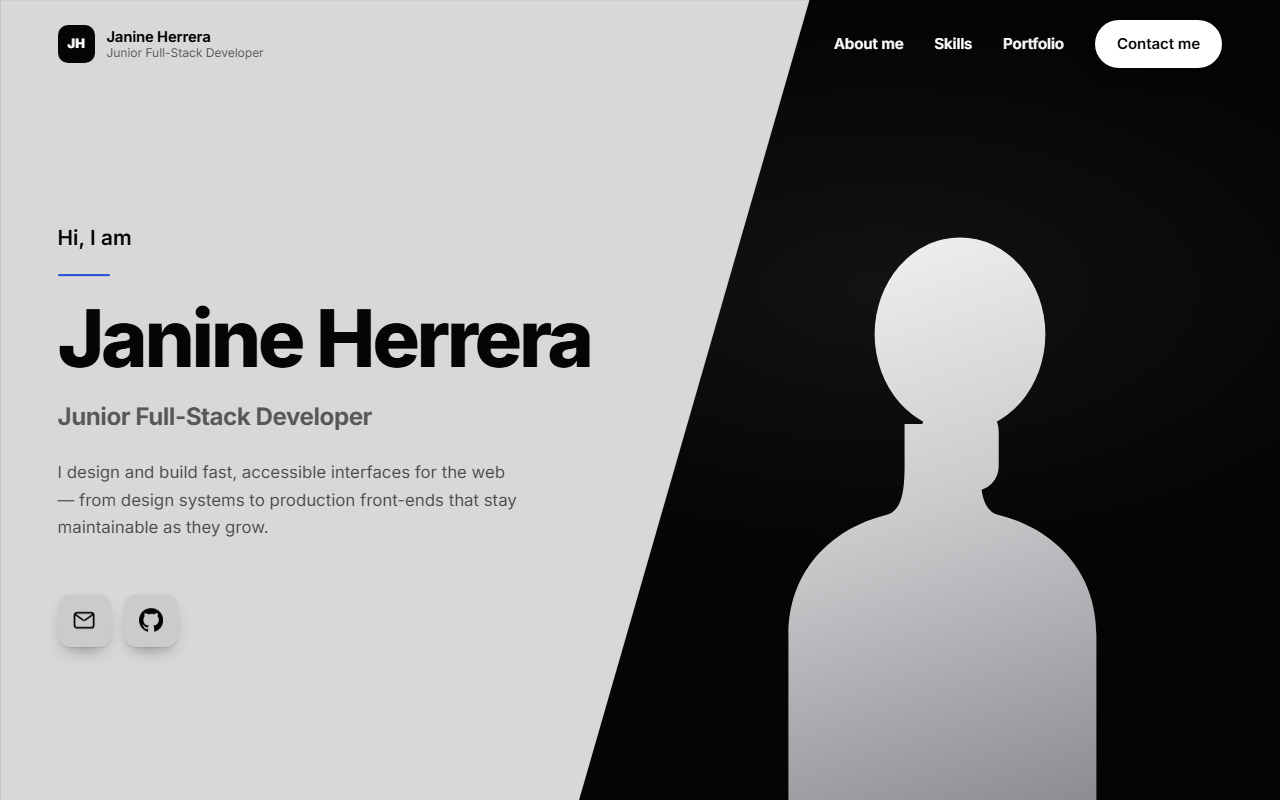
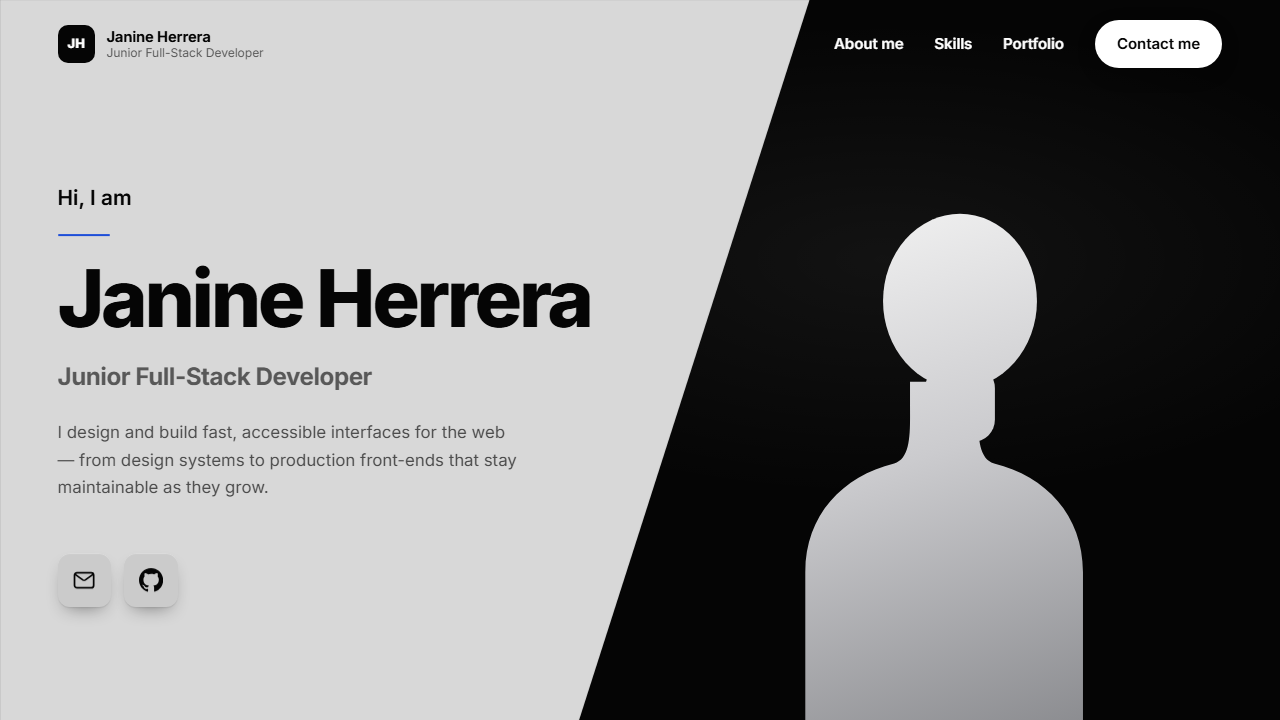
Cap the project card thumbnail so it stops dominating the card
At 16/10 the screenshot filled most of a wide card - roughly 75% of its
height - pushing the title, description and actions below the fold. The
reference design keeps the thumbnail as a preview band with the content
as the focus.

Changes:
- Aspect ratio 16/10 -> 16/9, and the source screenshot recaptured at
  1280x720 to match, so nothing is cropped unnecessarily.
- max-height: clamp(9rem, 19vw, 15rem). object-fit: cover crops rather
  than letterboxes, so capping the height is safe on any card width.
- object-position moved to 50% 38% to frame the hero content rather
  than the empty top of the page.

Measured share of card height taken by the thumbnail:
  1440px  240px of 516px  (47%)   was ~530px of ~700px
  768px   146px of 406px  (36%)
  390px   144px of 491px  (29%)

File also dropped from 113 KB to 104 KB.

diff --git a/index.html b/index.html
@@ -296,7 +296,7 @@
 
         <article class="card reveal" data-cat="web">
           <div class="card__media">
-            <img class="card__thumb" src="assets/img/work-portfolio.png" width="1280" height="800" loading="lazy" decoding="async" alt="Screenshot of this portfolio: a split-screen hero with a light gray panel on the left and a black portrait panel on the right, divided by a diagonal edge">
+            <img class="card__thumb" src="assets/img/work-portfolio.png" width="1280" height="720" loading="lazy" decoding="async" alt="Screenshot of this portfolio: a split-screen hero with a light gray panel on the left and a black portrait panel on the right, divided by a diagonal edge">
             <span class="card__badge">Web application</span>
           </div>
           <div class="card__body">

diff --git a/assets/css/styles.css b/assets/css/styles.css
@@ -917,9 +917,12 @@ a { color: inherit; }
 .card__thumb {
   display: block;
   width: 100%;
-  aspect-ratio: 16 / 10;
+  aspect-ratio: 16 / 9;
+  /* Capped so a wide card cannot be swallowed by its own screenshot.
+     object-fit crops rather than letterboxes, so the height is safe. */
+  max-height: clamp(9rem, 19vw, 15rem);
   object-fit: cover;
-  object-position: top center;
+  object-position: 50% 38%;
   border-bottom: 1px solid rgba(255,255,255,.09);
   background: #050507;
 }
